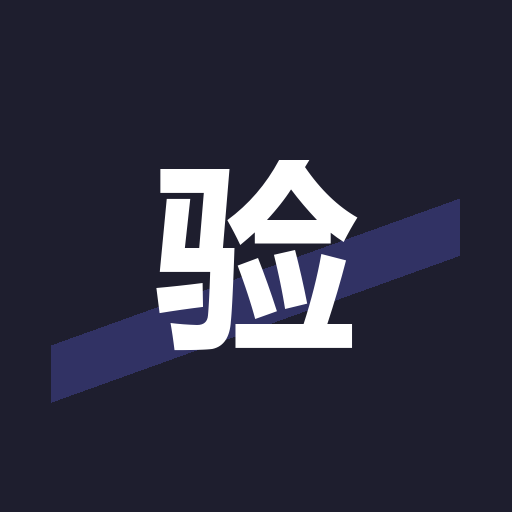
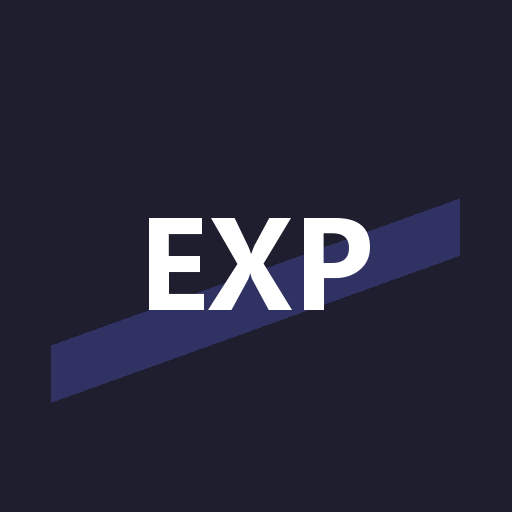
fix(pwa): 图标中心改为 EXP（不放汉字，小尺寸下字母辨识度更高），字号按 bbox 自适应退回 70%/62% 安全宽度；SW 版本升 v4

Changed region(s): [[0.2812, 0.3125, 0.75, 0.6875]]

diff --git a/src/main/resources/static/sw.js b/src/main/resources/static/sw.js
@@ -8,9 +8,10 @@
  */
 // v2（2026-11-08）：manifest 改名（去掉「· 后台」后缀）。
 // v3（2026-11-08）：图标中心字「阁」改「验」。
-// 两次都只能靠 bump 版本号生效 —— manifest 与图标都在下面 SHELL 里是**缓存优先**，
+// v4（2026-11-08）：图标改成 EXP（不放汉字）。
+// 每次都必须 bump 版本号 —— manifest 与图标都在下面 SHELL 里是**缓存优先**，
 // 不 bump 的话已安装的客户端会一直读到旧壳资源，改了等于没改。
-const VERSION = 'exphub-shell-v3';
+const VERSION = 'exphub-shell-v4';
 const SCOPE = self.registration.scope;   // 形如 https://cloudim.club/exphub/
 
 const SHELL = [

diff --git a/tools/gen_pwa_icons.py b/tools/gen_pwa_icons.py
@@ -35,6 +35,22 @@ def load_font(size: int):
     return ImageFont.load_default()
 
 
+def fit_font(draw, text: str, size: int, start_ratio: float, max_width_ratio: float):
+    """从 start_ratio 起逐档缩小字号，直到文字宽度落进 max_width_ratio 的安全宽度。
+
+    单字（如「阁」）用固定字号就够，但 "EXP" 是三个字母，同样字号会横向撑出安全区、
+    装到桌面上被圆形裁切切掉两边。这里按实际 textbbox 量出宽度再退档，不靠拍脑袋写死字号。
+    """
+    fs = int(size * start_ratio)
+    for _ in range(12):
+        font = load_font(fs)
+        box = draw.textbbox((0, 0), text, font=font)
+        if (box[2] - box[0]) <= size * max_width_ratio:
+            return font
+        fs = int(fs * 0.92)
+    return load_font(int(size * 0.2))
+
+
 def rounded_bg(size: int, radius_ratio: float, safe_ratio: float):
     """画底：全出血圆角方块 + 中间内容留安全区。"""
     img = Image.new("RGBA", (size, size), (0, 0, 0, 0))
@@ -49,16 +65,19 @@ def rounded_bg(size: int, radius_ratio: float, safe_ratio: float):
                fill=ACCENT + (70,))
     img.alpha_composite(band)
 
-    # 中心字：占安全区的比例
-    # 用「验」（经验阁的第二个字）而不是「阁」—— 越哥 2026-11-08 定：
-    # 桌面图标上「阁」字在圆形裁切下辨识度低，且和同屏其他 App 图标区分不开。
-    text = "验"
-    font_size = int(size * safe_ratio)
-    font = load_font(font_size)
-    tmp = ImageDraw.Draw(img)
-    box = tmp.textbbox((0, 0), text, font=font)
+    # 中心字：EXP（越哥 2026-11-08 定：桌面图标不放汉字，用 EXP）
+    # 用英文全大写而不是「经验阁」缩写 —— 手机主屏图标只有 48~64px，
+    # 三个字母比三个汉字在这个尺寸下辨识度高得多。
+    text = "EXP"
+    measure = ImageDraw.Draw(img)
+    # 普通图标留 70%（贴到 78% 时两端离边缘只剩几个像素，圆角裁切看着很挤），
+    # maskable 留 62%（规范只保证中心 80% 不被裁，再往里收一点更安全）
+    font = fit_font(measure, text, size, safe_ratio, 0.70 if safe_ratio < 0.48 else 0.62)
+    box = measure.textbbox((0, 0), text, font=font)
     tw, th = box[2] - box[0], box[3] - box[1]
-    d.text(((size - tw) / 2 - box[0], (size - th) / 2 - box[1]), text, font=font, fill=FG)
+    # 字母没有下伸部，纯按 bbox 居中视觉上会偏上，往下补 2% 更稳
+    d.text(((size - tw) / 2 - box[0], (size - th) / 2 - box[1] + size * 0.02),
+           text, font=font, fill=FG)
     return img
 
 
